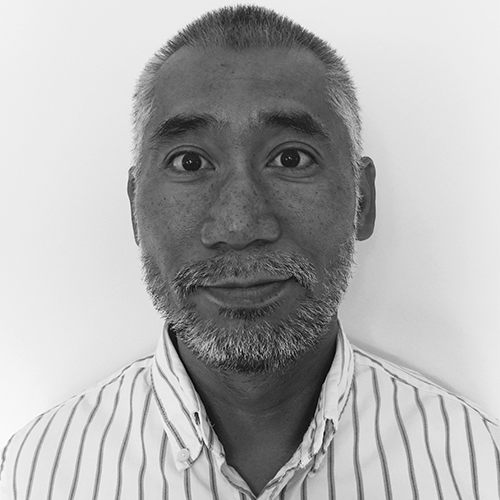
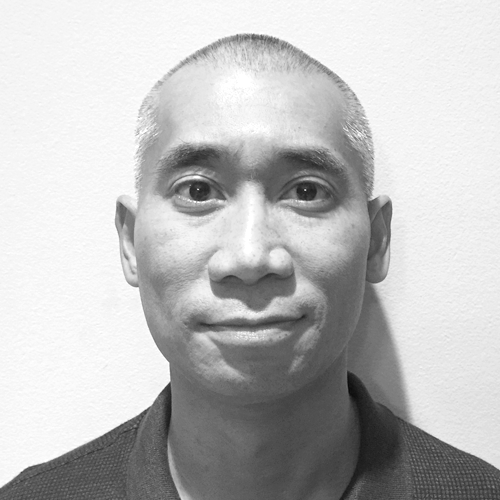
new carmelo image, took out courses section, remove latin text from team members

diff --git a/public/index.html b/public/index.html
@@ -164,10 +164,10 @@
             <!-- begin container -->
             <div class="container">
                 <h2 class="content-title">Our Team</h2>
-                <p class="content-desc">
+                <!-- <p class="content-desc">
                     Phasellus suscipit nisi hendrerit metus pharetra dignissim. Nullam nunc ante, viverra quis<br /> 
                     ex non, porttitor iaculis nisi.
-                </p>
+                </p> -->
                 <!-- begin row -->
 
         <div class="row team-row">
@@ -395,18 +395,19 @@
         <!-- end #action-box -->
         
         <!-- begin #work -->
+        <!-- 
         <div id="work" class="content" data-scrollview="true">
-            <!-- begin container -->
+            
             <div class="container" data-animation="true" data-animation-type="fadeInDown">
                 <h2 class="content-title">Our Featured Courses</h2>
                 <p class="content-desc">
                     Here are just some of the courses you will find on radX. Courses curated by us, as well as courses<br />provided by the radX community, will be added in the coming months.
                 </p>
-                <!-- begin row -->
+            
                 <div class="row row-space-10">
-                    <!-- begin col-3 -->
+            
                     <div class="col-md-3 col-sm-6">
-                        <!-- begin work -->
+            
                         <div class="work">
                             <div class="image">
                                 <a href="#"><img src="assets/stock_img/course1.jpg" alt="Work 1" /></a>
@@ -416,12 +417,11 @@
                                 <span class="desc-text">Lorem ipsum dolor sit amet</span>
                             </div>
                         </div>
-                        <!-- end work -->
+            
                     </div>
-                    <!-- end col-3 -->
-                    <!-- begin col-3 -->
+            
                     <div class="col-md-3 col-sm-6">
-                        <!-- begin work -->
+            
                         <div class="work">
                             <div class="image">
                                 <a href="#"><img src="assets/stock_img/course1.jpg" alt="Work 3" /></a>
@@ -431,12 +431,11 @@
                                 <span class="desc-text">Lorem ipsum dolor sit amet</span>
                             </div>
                         </div>
-                        <!-- end work -->
+            
                     </div>
-                    <!-- end col-3 -->
-                    <!-- begin col-3 -->
+            
                     <div class="col-md-3 col-sm-6">
-                        <!-- begin work -->
+            
                         <div class="work">
                             <div class="image">
                                 <a href="#"><img src="assets/stock_img/course1.jpg" alt="Work 5" /></a>
@@ -446,12 +445,11 @@
                                 <span class="desc-text">Lorem ipsum dolor sit amet</span>
                             </div>
                         </div>
-                        <!-- end work -->
+            
                     </div>
-                    <!-- end col-3 -->
-                    <!-- begin col-3 -->
+            
                     <div class="col-md-3 col-sm-6">
-                        <!-- begin work -->
+            
                         <div class="work">
                             <div class="image">
                                 <a href="#"><img src="assets/stock_img/course1.jpg" alt="Work 7" /></a>
@@ -461,16 +459,15 @@
                                 <span class="desc-text">Lorem ipsum dolor sit amet</span>
                             </div>
                         </div>
-                        <!-- end work -->
+            
                     </div>
-                    <!-- end col-3 -->
+            
                 </div>
-                <!-- end row -->
-                <!-- begin row -->
+            
                 <div class="row row-space-10">
-                    <!-- begin col-3 -->
+            
                     <div class="col-md-3 col-sm-6">
-                        <!-- begin work -->
+            
                         <div class="work">
                             <div class="image">
                                 <a href="#"><img src="assets/stock_img/course1.jpg" alt="Work 2" /></a>
@@ -480,12 +477,12 @@
                                 <span class="desc-text">Lorem ipsum dolor sit amet</span>
                             </div>
                         </div>
-                        <!-- end work -->
+            
                     </div>
-                    <!-- end col-3 -->
-                    <!-- begin col-3 -->
+            
+            
                     <div class="col-md-3 col-sm-6">
-                        <!-- begin work -->
+            
                         <div class="work">
                             <div class="image">
                                 <a href="#"><img src="assets/stock_img/course1.jpg" alt="Work 4" /></a>
@@ -495,12 +492,11 @@
                                 <span class="desc-text">Lorem ipsum dolor sit amet</span>
                             </div>
                         </div>
-                        <!-- end work -->
+            
                     </div>
-                    <!-- end col-3 -->
-                    <!-- begin col-3 -->
+            
                     <div class="col-md-3 col-sm-6">
-                        <!-- begin work -->
+            
                         <div class="work">
                             <div class="image">
                                 <a href="#"><img src="assets/stock_img/course1.jpg" alt="Work 6" /></a>
@@ -510,12 +506,11 @@
                                 <span class="desc-text">Lorem ipsum dolor sit amet</span>
                             </div>
                         </div>
-                        <!-- end work -->
+            
                     </div>
-                    <!-- end col-3 -->
-                    <!-- begin col-3 -->
+            
                     <div class="col-md-3 col-sm-6">
-                        <!-- begin work -->
+            
                         <div class="work">
                             <div class="image">
                                 <a href="#"><img src="assets/stock_img/course1.jpg" alt="Work 8" /></a>
@@ -525,14 +520,14 @@
                                 <span class="desc-text">Lorem ipsum dolor sit amet</span>
                             </div>
                         </div>
-                        <!-- end work -->
+            
                     </div>
-                    <!-- end col-3 -->
+            
                 </div>
-                <!-- end row -->
+            
             </div>
-            <!-- end container -->
-        </div>
+            
+        </div> -->
         <!-- end #work -->
         
         <!-- begin #client -->
@@ -703,7 +698,9 @@
         <!-- end theme-panel -->
     </div>
     <!-- end #page-container -->
-	
+
+
+
 	<!-- ================== BEGIN BASE JS ================== -->
 	<script src="assets/plugins/jquery/jquery-1.9.1.min.js"></script>
 	<script src="assets/plugins/jquery/jquery-migrate-1.1.0.min.js"></script>
